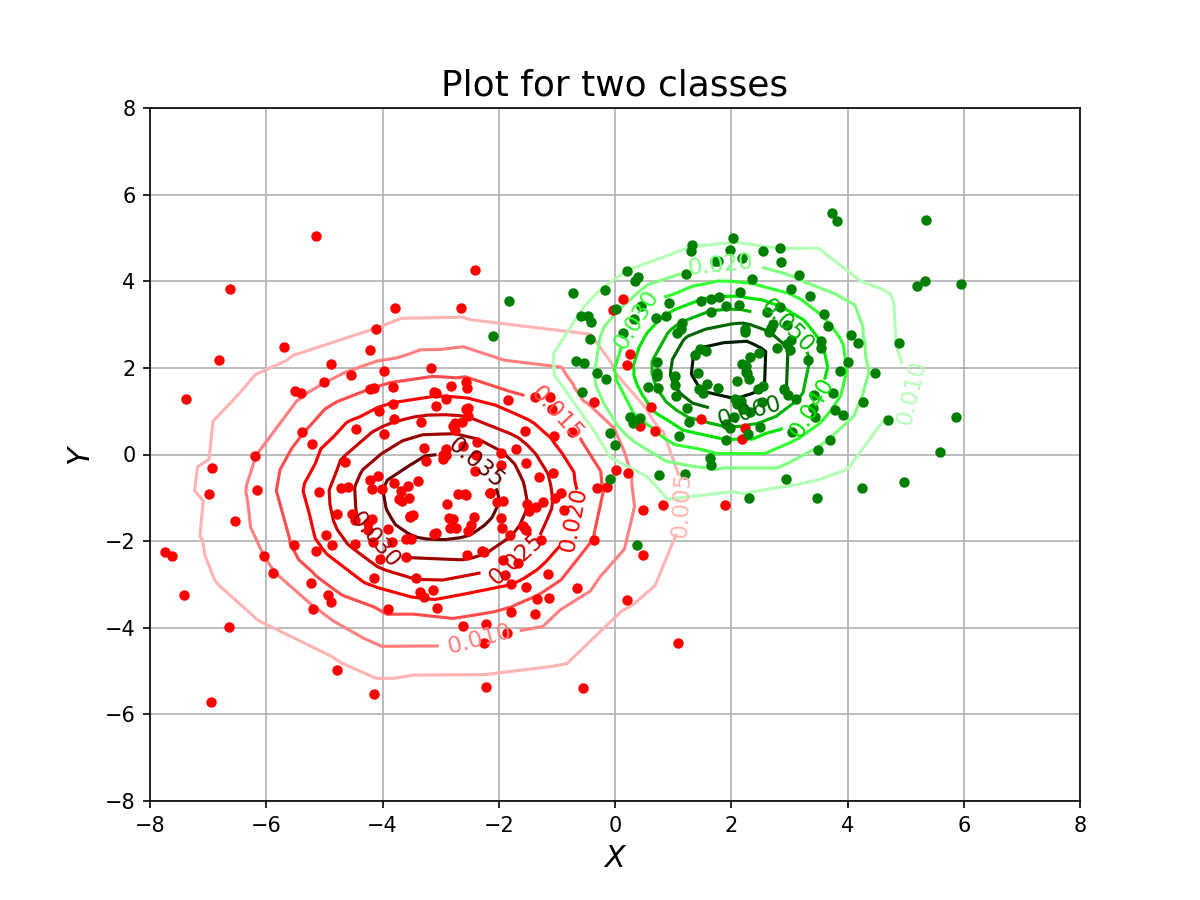
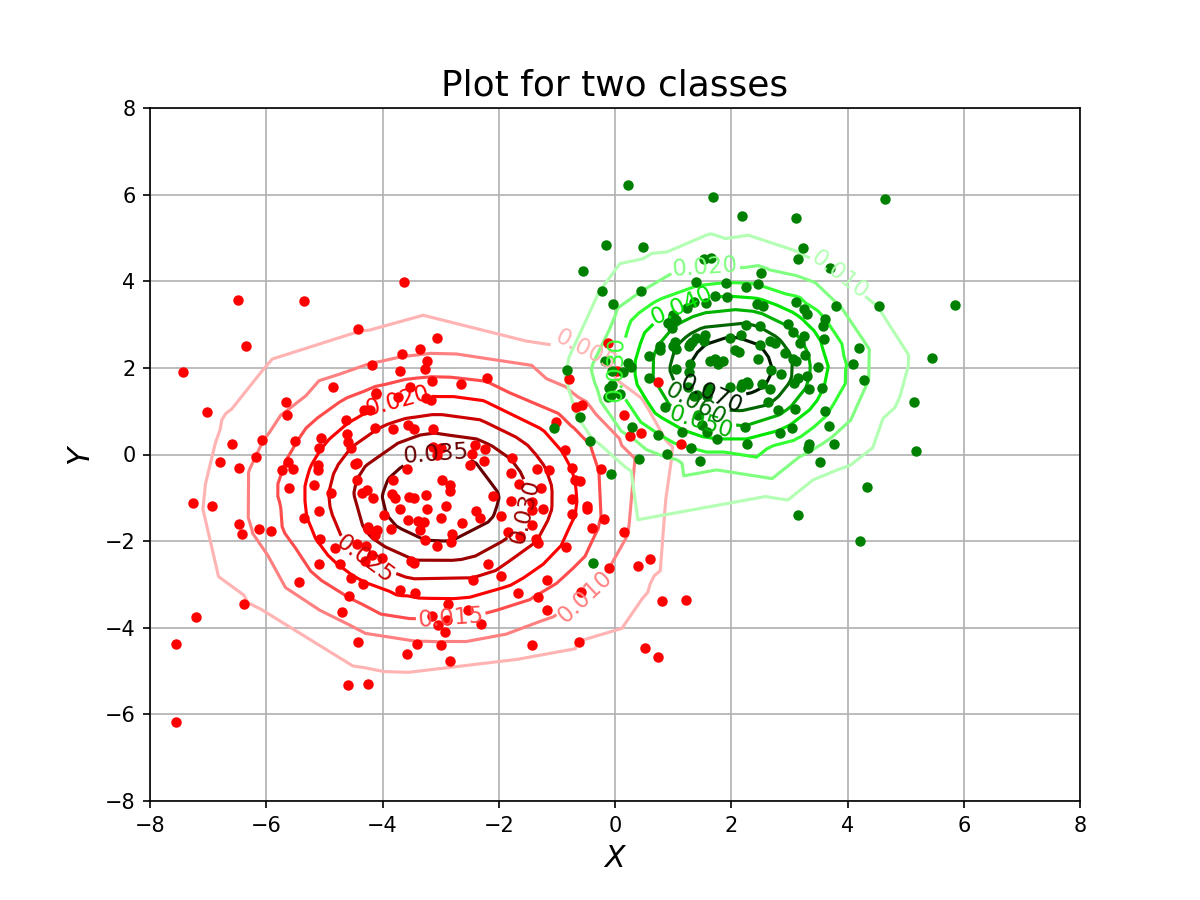
Add exercise03 and exercise04 Lab_02

diff --git a/Lab_02/main.py b/Lab_02/main.py
@@ -5,68 +5,41 @@ import scipy.stats as st
 import pandas as pd
 from sklearn.discriminant_analysis import QuadraticDiscriminantAnalysis as QDA
 from sklearn.discriminant_analysis import LinearDiscriminantAnalysis as LDA
+from sklearn.naive_bayes import GaussianNB
 
-#### EXERCISE 1: "GĘSTOŚĆ ROZKŁADÓW 2D" ####
+#### EXERCISE 1: "2D DISTRIBUTION DENSITY" ####
 
 # Matrices COV for classes
 S1 = np.array([[4, 0], [0, 4]])
 S2 = np.array([[2, 0], [0, 2]])
+S3 = np.array([[2, 1], [1, 2]])
+S4 = np.array([[1, 0], [0, 1]])
 
 # Mean
 m1 = np.array([-3, -1])
 m2 = np.array([2, 2])
+m3 = np.array([-2, 3])
+m4 = np.array([1, -2])
 
 # Number of points in classes
 n1 = 200
 n2 = 150
-n = n1 + n2
+n3 = 150
+n4 = 100
+n = n1 + n2 + n3 + n4
 
 # Generate normal distribution
 X1 = np.random.multivariate_normal(m1, S1, n1)
 X2 = np.random.multivariate_normal(m2, S2, n2)
+X3 = np.random.multivariate_normal(m3, S3, n3)
+X4 = np.random.multivariate_normal(m4, S4, n4)
 
 # Classes components
 x1, y1 = zip(*X1)
 x2, y2 = zip(*X2)
+x3, y3 = zip(*X3)
+x4, y4 = zip(*X4)
 
-# Create plot
-# plt.plot(x1,y1,".",color="red", markersize=12)
-# plt.plot(x2,y2,".",color="green", markersize=12)
-# plt.xlabel(r'$X$',size="x-large")
-# plt.ylabel(r'$Y$',size="x-large")
-# plt.title("Plot for two classes",size="xx-large")
-# plt.grid(True)
-
-# Add 2D PDF to plot
-# ## Define borders
-# x1min = min(x1) - (max(x1)-min(x1))/10
-# x1max = max(x1) + (max(x1)-min(x1))/10
-# y1min = min(y1) - (max(y1)-min(y1))/10
-# y1max = max(y1) + (max(y1)-min(y1))/10
-# ## Create meshgrid
-# borderX1, borderY1 = np.mgrid[x1min:x1max:100j, y1min:y1max:100j]
-# # TEST
-# positions = np.vstack([borderX1.ravel(), borderY1.ravel()])
-# values = np.vstack([x1, y1])
-# kernel = st.gaussian_kde(values)
-# f = np.reshape(kernel(positions).T, borderX1.shape)
-#
-# ## Define borders
-# x2min = min(x2) - (max(x2)-min(x2))/10
-# x2max = max(x2) + (max(x2)-min(x2))/10
-# y2min = min(y2) - (max(y2)-min(y2))/10
-# y2max = max(y2) + (max(y2)-min(y2))/10
-# ## Create meshgrid
-# borderX2, borderY2 = np.mgrid[x2min:x2max:100j, y2min:y2max:100j]
-# # TEST
-# positions2 = np.vstack([borderX2.ravel(), borderY2.ravel()])
-# values2 = np.vstack([x2, y2])
-# kernel2 = st.gaussian_kde(values2)
-# f2 = np.reshape(kernel2(positions2).T, borderX2.shape)
-#
-# plt.contourf(borderX1,borderY1,f)
-# plt.contourf(borderX2,borderY2,f2)
-# # plt.imshow(np.rot90(f) cmap='coolwarm', extent=[x1min, x1max, y1min, y1max])
 
 pdf_X1 = st.multivariate_normal.pdf(X1, m1, S1)
 pdf_X2 = st.multivariate_normal.pdf(X2, m2, S2)
@@ -86,12 +59,12 @@ plt.title("Plot for two classes", size="xx-large")
 plt.xlim(-8, 8)
 plt.ylim(-8, 8)
 plt.grid(True)
+plt.savefig("Exercise01.png", dpi=150)
 plt.close()
-# plt.savefig("Exercise01.png", dpi=150)
 # plt.show()
 
 
-#### EXERCISE 2: "METODA LDA" ####
+#### EXERCISE 2: "LDA & QDA METHODS" ####
 
 # Create data structure with classes
 
@@ -99,16 +72,13 @@ data = pd.DataFrame({"Class": [1 for x in range(np.size(X1, 0))], "x": x1, "y": 
 temp = pd.DataFrame({"Class": [2 for x in range(np.size(X2, 0))], "x": x2, "y": y2})
 data = data.append(temp, ignore_index=True)
 
-
-# print(data.loc[data['Class']==1,['x','y']])
-
 # Discriminant Analysis
 
 ## plot function
 def plot_function(da, X, cls, cls_pred):
     plt.figure(figsize=(8, 6))
 
-    tp = (cls == cls_pred)  # True Positive
+    tp = (cls == cls_pred)
     tp1, tp2 = tp[cls == 1], tp[cls == 2]
     X1, X2 = X[cls == 1], X[cls == 2]
     X1_tp, X1_fp = X1[tp1], X1[~tp1]
@@ -133,10 +103,16 @@ def plot_function(da, X, cls, cls_pred):
     plt.contour(xx, yy, Z, [0.5], linewidths=2., colors='white', zorder=0)
 
     # class 1 & 2: means
-    plt.plot(da.means_[0][0], da.means_[0][1],
-             '*', color='yellow', markersize=12, markeredgecolor='grey')
-    plt.plot(da.means_[1][0], da.means_[1][1],
-             '*', color='yellow', markersize=12, markeredgecolor='grey')
+    if "GaussianNB" in str(da):
+        plt.plot(da.theta_[0][0], da.theta_[0][1],
+                 '*', color='yellow', markersize=12, markeredgecolor='grey')
+        plt.plot(da.theta_[1][0], da.theta_[1][1],
+                 '*', color='yellow', markersize=12, markeredgecolor='grey')
+    else:
+        plt.plot(da.means_[0][0], da.means_[0][1],
+                 '*', color='yellow', markersize=12, markeredgecolor='grey')
+        plt.plot(da.means_[1][0], da.means_[1][1],
+                 '*', color='yellow', markersize=12, markeredgecolor='grey')
 
     plt.grid(False)
     plt.xlabel(r'$X$', size="x-large")
@@ -148,14 +124,115 @@ def plot_function(da, X, cls, cls_pred):
 lda = LDA(solver="svd", store_covariance=True)
 cls_pred = lda.fit(data[['x', 'y']].values, data['Class'].values).predict(data[['x', 'y']].values)
 
+plt.figure(figsize=(8, 6))
 plot_function(lda, data[['x', 'y']].values, data['Class'].values, cls_pred)
 plt.savefig("Exercise02_lda.png", dpi=150)
-plt.show()
+plt.close()
+# plt.show()
+
 
 ## Quadratic Discriminant Analysis
 qda = QDA(store_covariance=True)
 cls_pred = qda.fit(data[['x', 'y']].values, data['Class'].values).predict(data[['x', 'y']].values)
 
+plt.figure(figsize=(8, 6))
 plot_function(qda, data[['x', 'y']].values, data['Class'].values, cls_pred)
 plt.savefig("Exercise02_qda.png", dpi=150)
-plt.show()
+plt.close()
+# plt.show()
+
+
+#### EXERCISE 3: "NAIVE BAYES" ####
+gnb = GaussianNB()
+cls_pred = gnb.partial_fit(data[['x', 'y']].values, data['Class'].values,np.unique(data['Class'].values)).predict(data[['x', 'y']].values)
+
+plt.figure(figsize=(8, 6))
+plt.title("Bayes")
+plot_function(gnb, data[['x', 'y']].values, data['Class'].values, cls_pred)
+plt.savefig("Exercise03.png", dpi=150)
+plt.close()
+
+plt.close()
+
+
+#### EXERCISE 4: "MANY CLASSES" ####
+## Set data
+data = pd.DataFrame({"Class": [1 for x in range(np.size(X1, 0))], "x": x1, "y": y1})
+temp = pd.DataFrame({"Class": [2 for x in range(np.size(X2, 0))], "x": x2, "y": y2})
+temp2 = pd.DataFrame({"Class": [3 for x in range(np.size(X3, 0))], "x": x3, "y": y3})
+temp3 = pd.DataFrame({"Class": [4 for x in range(np.size(X4, 0))], "x": x4, "y": y4})
+data = data.append(temp, ignore_index=True)
+data = data.append(temp2, ignore_index=True)
+
+## Create plot for n classes (max 6cls)
+def plot_function(da, X, cls, cls_pred, cls_n):
+    cls_col = ["#EC7063","#A569BD","#5DADE2","#27AE60","#F1C40F","#E67E22"]
+    cls_col_dark = ["#922B21","#76448A","#2471A3","#1E8449","#B7950B","#AF601A"]
+    cls_col_map = ["#f4aca4","#d5b8e0","#a8d3f0","#acecc7","#f9e79f","f2bc8c"]
+    cmap = colors.ListedColormap([cls_col_map[x] for x in range(cls_n)])
+    plt.figure(figsize=(8, 6))
+    tp = (cls == cls_pred)
+    tpC = [0 for x in range(cls_n)]
+    XC = [0 for x in range(cls_n)]
+    XC_tp = [0 for x in range(cls_n)]
+    XC_fp = [0 for x in range(cls_n)]
+    for i in range(cls_n):
+        tpC[i] = tp[cls == i+1]
+        XC[i] = X[cls == i+1]
+        XC_tp[i] = XC[i][tpC[i]]
+        XC_fp[i] = XC[i][~tpC[i]]
+
+        # class N: points
+        plt.scatter(XC_tp[i][:, 0], XC_tp[i][:, 1], marker='.',s=30, color=cls_col[i])
+        plt.scatter(XC_fp[i][:, 0], XC_fp[i][:, 1], marker='x',s=20, color=cls_col_dark[i])
+
+    # class 1 & 2: areas
+    nx, ny = 300, 300
+    x_min, x_max = plt.xlim()
+    y_min, y_max = plt.ylim()
+    xx, yy = np.meshgrid(np.linspace(x_min, x_max, nx), np.linspace(y_min, y_max, ny))
+    Z_cls = da.predict(np.c_[xx.ravel(), yy.ravel()])
+    Z_cls = Z_cls.reshape(xx.shape)
+    plt.pcolormesh(xx, yy, Z_cls, cmap=cmap, zorder=0)
+    plt.contour(xx, yy, Z_cls, [x+1 for x in range(cls_n)], linewidths=1., colors='white', zorder=0)
+
+
+## For 3 classes
+lda = LDA(solver="svd", store_covariance=True)
+cls_pred = lda.fit(data[['x', 'y']].values, data['Class'].values).predict(data[['x', 'y']].values)
+
+plt.figure(figsize=(8, 6))
+plot_function(lda, data[['x', 'y']].values, data['Class'].values, cls_pred,3)
+plt.savefig("Exercise04_lda_3.png")
+plt.close()
+
+qda = QDA(store_covariance=True)
+cls_pred = qda.fit(data[['x', 'y']].values, data['Class'].values).predict(data[['x', 'y']].values)
+
+plt.figure(figsize=(8, 6))
+plot_function(qda, data[['x', 'y']].values, data['Class'].values, cls_pred,3)
+plt.savefig("Exercise04_qda_3.png")
+plt.close()
+
+
+## For 4 classes
+data = data.append(temp3, ignore_index=True)
+
+
+lda = LDA(solver="svd", store_covariance=True)
+cls_pred = lda.fit(data[['x', 'y']].values, data['Class'].values).predict(data[['x', 'y']].values)
+
+plt.figure(figsize=(8, 6))
+plot_function(lda, data[['x', 'y']].values, data['Class'].values, cls_pred,4)
+plt.savefig("Exercise04_lda_4.png")
+plt.close()
+
+qda = QDA(store_covariance=True)
+cls_pred = qda.fit(data[['x', 'y']].values, data['Class'].values).predict(data[['x', 'y']].values)
+
+plt.figure(figsize=(8, 6))
+plot_function(qda, data[['x', 'y']].values, data['Class'].values, cls_pred,4)
+plt.savefig("Exercise04_qda_4.png")
+plt.close()
+
+
